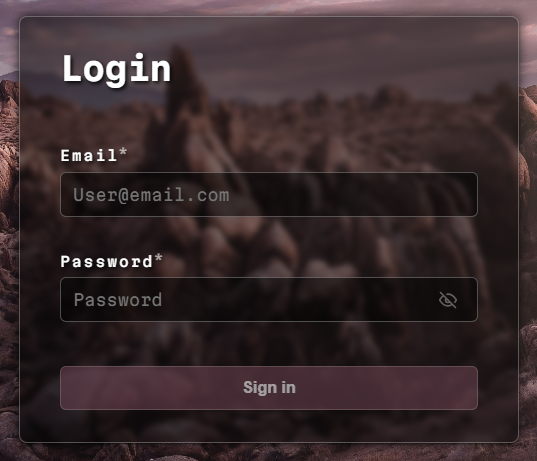
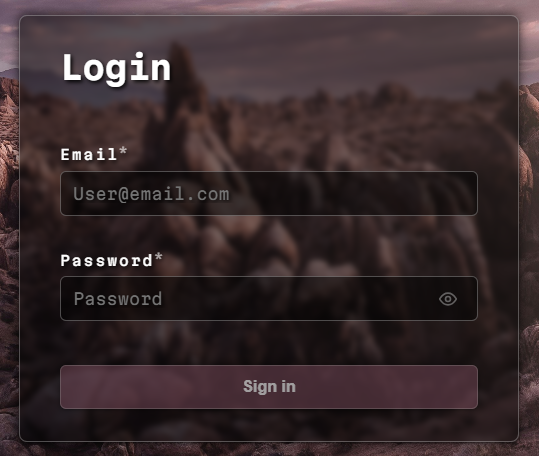
fix preview

diff --git a/src/components/Input/styles.module.css b/src/components/Input/styles.module.css
@@ -16,6 +16,7 @@
   font-size: 1rem;
   transition: border-color 0.2s ease, box-shadow 0.2s ease;
   width: 100%;
+  text-shadow: var(--text-shadow);
 }
 
 .input:focus-visible {

diff --git a/README.md b/README.md
@@ -48,7 +48,8 @@ Whether you're a native Martian or an Earthling traveler, this form prepares you
 
 ## 👾 Preview
 
-![Preview](./src/assets/preview.png)
+<img src="./src/assets/preview.png" alt="Preview" width="300" style="border-radius: 12px;" />
+
 
 ---
 
